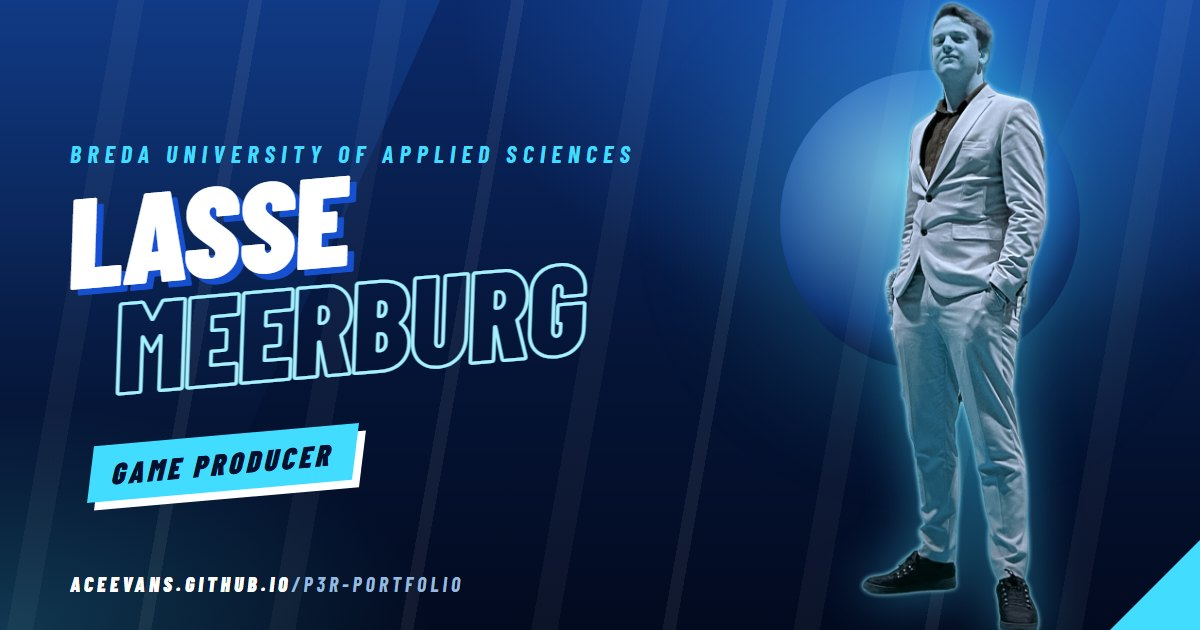
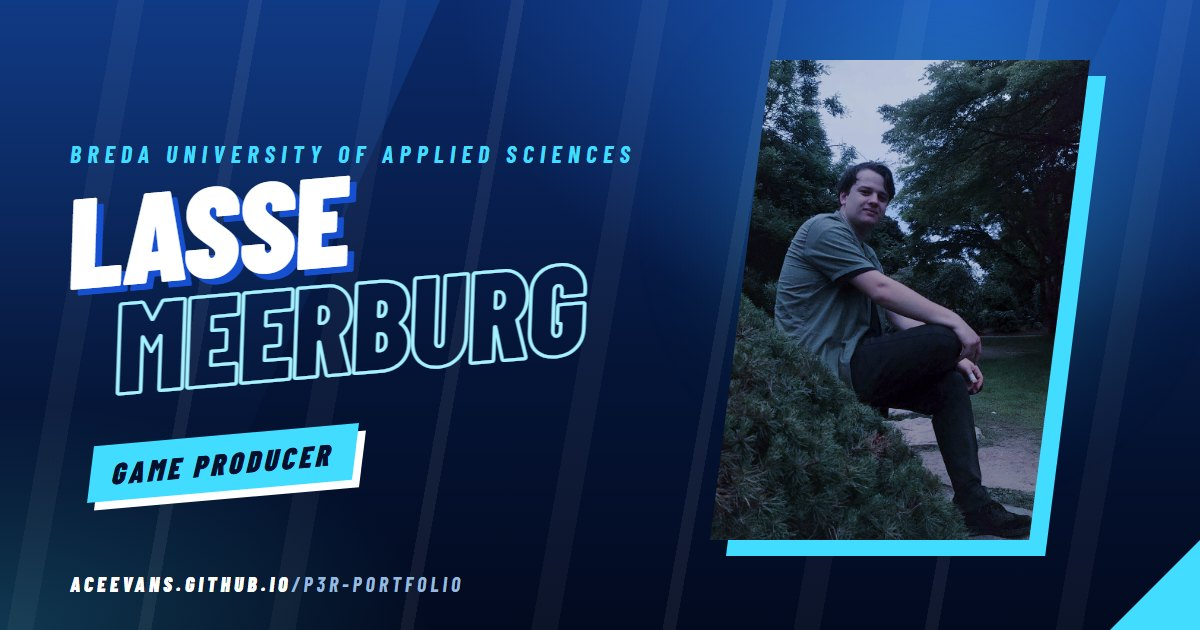
Bring back the hillside photo, reduce motion, drop decorative arrows
- Home hero shows the original hillside photo again; the intro dialogue
  portrait uses the close-up so no photo appears twice
- Softer, shorter entrances: cards and images fade in, no flip or wipe
- Remove scroll parallax, screen shake, title glitch, menu wobble,
  portrait bob, chat buzz, moving waves and menu stripes; gentler tilt
  and a single small click ring
- Arrows only on clickable things: no dialogue ▼, caption ▶, chat ▼,
  floor ▲ or calendar ▶▶/◀◀; the CV connector ends in a dot
- Home link preview uses the hillside photo

Changed region(s): [[0.5858, 0.0, 0.925, 1.0]]

diff --git a/assets/js/site.js b/assets/js/site.js
@@ -316,9 +316,6 @@
     const hdr = $('#hdr');
     const bar = $('.progress');
     const toTop = $('.to-top');
-    const bg = $('.bg');
-    const hero = $('.hero');
-    const phero = $('.phero');
     let lastY = window.scrollY;
     let ticking = false;
 
@@ -332,11 +329,6 @@
       if (Math.abs(y - lastY) > 6) lastY = y;
       bar.style.transform = `scaleX(${(y / max).toFixed(4)})`;
       toTop.classList.toggle('is-shown', y > window.innerHeight * 0.8);
-      if (!reduceMotion) {
-        bg.style.setProperty('--sy', y.toFixed(0));
-        if (hero && y < window.innerHeight * 1.5) hero.style.setProperty('--par', `${(y * 0.12).toFixed(1)}px`);
-        if (phero && y < window.innerHeight * 1.5) phero.style.setProperty('--par', `${(y * 0.3).toFixed(1)}px`);
-      }
     };
 
     window.addEventListener('scroll', () => {
@@ -352,15 +344,6 @@
       window.scrollTo({ top: 0, behavior: reduceMotion ? 'auto' : 'smooth' });
     });
     update();
-  }
-
-  /* ---------- Screen shake ---------------------------------------------- */
-  function shake() {
-    if (reduceMotion) return;
-    const main = $('#main');
-    if (!main) return;
-    restart(main, 'is-shaking');
-    setTimeout(() => main.classList.remove('is-shaking'), 520);
   }
 
   /* ---------- Dark Hour theme -------------------------------------------- */
@@ -405,7 +388,6 @@
       if (document.startViewTransition) {
         showStamp(dark);
         document.startViewTransition(() => apply(dark));
-        setTimeout(shake, 250);
         return;
       }
 
@@ -414,7 +396,7 @@
       $('.dh-flash__sub', flash).textContent = dark ? 'The Dark Hour' : 'Back to normal time';
       flash.classList.toggle('dh-flash--day', !dark);
       restart(flash, 'is-on');
-      setTimeout(() => { apply(dark); shake(); }, 260);
+      setTimeout(() => apply(dark), 260);
     });
   }
 
@@ -587,7 +569,6 @@
       play(done) {
         sfx.hit();
         restart(el, 'is-on');
-        setTimeout(shake, 280);
         setTimeout(done, 1250);
       },
     };
@@ -609,15 +590,9 @@
     $$('.shot').forEach((el) => onVisible(el, () => el.classList.add('is-in')));
   }
 
-  /* ---------- Cards: back face + deal-in -------------------------------- */
+  /* ---------- Cards: fade in when they scroll into view ---------------- */
   function initCards() {
-    $$('.arcana').forEach((card) => {
-      const back = document.createElement('span');
-      back.className = 'arcana__back';
-      back.setAttribute('aria-hidden', 'true');
-      card.append(back);
-      onVisible(card, () => card.classList.add('is-dealt'));
-    });
+    $$('.arcana').forEach((card) => onVisible(card, () => card.classList.add('is-dealt')));
   }
 
   /* ---------- Counters --------------------------------------------------- */
@@ -720,7 +695,6 @@
           <span class="dialog__name"></span>
           <p class="dialog__text" aria-live="polite"></p>
           <p class="dialog__role"></p>
-          <span class="dialog__next" aria-hidden="true">▼</span>
         </div>
         <div class="talk__ctrl">
           <button class="btn" type="button" data-prev>◀ Prev</button>
@@ -896,7 +870,6 @@
       msgs[k].before(typing);
       setTimeout(() => {
         msgs[k].classList.remove('is-hidden');
-        restart(phone, 'is-buzz');
         sfx.pop();
         k += 1;
         step();
@@ -982,14 +955,6 @@
       if (e.key === 'ArrowUp' || e.key === 'ArrowLeft') { e.preventDefault(); sfx.hover(); set(idx - 1, true); }
     });
     set(0);
-
-    const hero = $('.hero');
-    const cut = $('.hero__cutout');
-    if (cut) {
-      const fail = () => hero.classList.add('no-cutout');
-      if (cut.complete && !cut.naturalWidth) fail();
-      cut.addEventListener('error', fail);
-    }
   }
 
   /* ---------- CV: calendar that follows the timeline -------------------- */
@@ -1010,22 +975,26 @@
     const svg = document.createElementNS(NS, 'svg');
     svg.setAttribute('class', 'daycal__link');
     svg.setAttribute('aria-hidden', 'true');
-    svg.innerHTML = '<defs><marker id="dc-arrow" viewBox="0 0 10 10" refX="7" refY="5" markerWidth="8" markerHeight="8" orient="auto"><path d="M0 0L10 5L0 10z" fill="currentColor"/></marker></defs><path class="daycal__path" marker-end="url(#dc-arrow)"/>';
+    svg.innerHTML = '<path class="daycal__path"/><circle class="daycal__dot" r="4"/>';
     layout.append(svg);
     const path = $('.daycal__path', svg);
+    const dot = $('.daycal__dot', svg);
 
     let current = null;
     const draw = () => {
-      if (!current || getComputedStyle(cal).display === 'none') { path.setAttribute('d', ''); return; }
+      if (!current || getComputedStyle(cal).display === 'none') { path.setAttribute('d', ''); dot.setAttribute('r', '0'); return; }
+      dot.setAttribute('r', '4');
       const L = layout.getBoundingClientRect();
       const a = cal.getBoundingClientRect();
       const b = $('.tl__date', current).getBoundingClientRect();
       const x1 = a.right - L.left - 4;
       const y1 = a.top + a.height * 0.7 - L.top;
-      const x2 = b.left - L.left - 10;
+      const x2 = b.left - L.left - 8;
       const y2 = b.top + b.height / 2 - L.top;
       const xm = x1 + Math.max(14, (x2 - x1) * 0.4);
       path.setAttribute('d', `M${x1.toFixed(1)} ${y1.toFixed(1)}H${xm.toFixed(1)}V${y2.toFixed(1)}H${x2.toFixed(1)}`);
+      dot.setAttribute('cx', x2.toFixed(1));
+      dot.setAttribute('cy', y2.toFixed(1));
     };
     let ticking = false;
     const schedule = () => { if (!ticking) { ticking = true; requestAnimationFrame(() => { ticking = false; draw(); }); } };
@@ -1062,10 +1031,10 @@
       const target = new Date(parts[0], parts[1] - 1, 1);
       const months = (target.getFullYear() - cur.getFullYear()) * 12 + (target.getMonth() - cur.getMonth());
       if (!months || reduceMotion) { cur = target; show(cur, true); return; }
-      fx.textContent = months > 0 ? '▶▶ Forward' : '◀◀ Rewinding';
+      fx.textContent = months > 0 ? 'Forward in time' : 'Rewinding';
       cal.classList.add('is-running');
       const start = cur;
-      const steps = Math.min(Math.abs(months), 14);
+      const steps = Math.min(Math.abs(months), 6);
       let k = 0;
       timer = setInterval(() => {
         k += 1;
@@ -1077,7 +1046,7 @@
           show(cur, true);
           cal.classList.remove('is-running');
         }
-      }, 70);
+      }, 90);
     };
 
     const watch = new IntersectionObserver((list) => {
@@ -1233,8 +1202,8 @@
         const r = el.getBoundingClientRect();
         const x = (e.clientX - r.left) / r.width;
         const y = (e.clientY - r.top) / r.height;
-        el.style.setProperty('--ry', `${((x - 0.5) * 14).toFixed(2)}deg`);
-        el.style.setProperty('--rx', `${(-(y - 0.5) * 14).toFixed(2)}deg`);
+        el.style.setProperty('--ry', `${((x - 0.5) * 7).toFixed(2)}deg`);
+        el.style.setProperty('--rx', `${(-(y - 0.5) * 7).toFixed(2)}deg`);
         el.style.setProperty('--px', `${(x * 100).toFixed(1)}%`);
         el.style.setProperty('--py', `${(y * 100).toFixed(1)}%`);
       });
@@ -1255,14 +1224,9 @@
       el.className = 'splash';
       el.style.left = `${e.clientX}px`;
       el.style.top = `${e.clientY}px`;
-      let html = '<i class="ring"></i><i class="ring ring--2"></i>';
-      const n = big ? 10 : 6;
-      for (let i = 0; i < n; i++) {
-        html += `<i class="drop" style="--a:${((360 / n) * i + Math.random() * 25).toFixed(0)}deg;--r:${(28 + Math.random() * 44).toFixed(0)}px"></i>`;
-      }
-      el.innerHTML = html;
+      el.innerHTML = `<i class="ring${big ? '' : ' ring--small'}"></i>`;
       document.body.append(el);
-      setTimeout(() => el.remove(), 1200);
+      setTimeout(() => el.remove(), 700);
     });
   }
 

diff --git a/assets/css/style.css b/assets/css/style.css
@@ -1690,3 +1690,47 @@ a.arcana:active { --press: .95; }
 /* Menu close button lives top-right (where the Menu button is), clear of Extras */
 .menu .menu__close { position: absolute; top: 18px; right: clamp(16px, 3vw, 40px); }
 .quote::before { font: 700 82px/1 Georgia, "Times New Roman", serif; top: 10px; }
+
+/* ==========================================================================
+   v5 — less motion overall, arrows only on things you can click
+   ========================================================================== */
+
+/* Home hero: the hillside photo in its slanted frame */
+.hero--menu .hero__photo { display: block; }
+.hero__figure { min-height: 0; }
+.speaker__img img { object-position: 50% 22%; }
+
+/* Softer, shorter entrances */
+.js [data-reveal] { translate: 0 18px; transition: opacity .6s var(--ease), translate .6s var(--ease); }
+.js [data-stagger].is-in > * { animation: staggerSoft .45s var(--ease) backwards; animation-delay: calc(var(--i, 0) * 45ms + 40ms); }
+@keyframes staggerSoft { from { opacity: 0; translate: 0 8px; } }
+.arcana.is-dealt { animation: fadeUp .7s var(--ease) both; }
+@keyframes fadeUp { from { opacity: 0; translate: 0 22px; } to { opacity: 1; translate: 0 0; } }
+.shot.is-in .shot__frame > div::after { animation: none; }
+.shot.is-in img { animation: fadeIn .7s var(--ease) both; }
+@keyframes fadeIn { from { opacity: 0; } to { opacity: 1; } }
+.js .title:not(.is-in) .title__main { translate: -14px 0; }
+@keyframes slamSoft { from { opacity: 0; translate: -24px 0; } to { opacity: 1; translate: 0 0; } }
+@media (prefers-reduced-motion: no-preference) {
+  .hero__title > span, .phero__title, .hero__role, .phero__role { animation-name: slamSoft; animation-duration: .7s; }
+  .hero__photo { animation: slamSoft .8s .1s var(--ease) both; }
+}
+.tl.is-in .tl__date { animation: none; }
+.rankup.is-in .rankup__flag, .quest.is-in .quest__stamp { animation: fadeIn .5s .2s var(--ease) both; }
+
+/* Nothing loops, wobbles or shakes */
+.bg__waves, .menu__bg::after { animation: none; }
+.menu__bg { animation: menuBg .45s var(--ease) both; }
+.proj__title a:hover, .pnav__link:hover .pnav__title, .slink__item a.is-active .slink__title { animation: none; }
+.menu__item.is-active .menu__label, .hmenu__item.is-active .hmenu__label { animation: none; }
+.speaker:has(.dialog.is-typing) .speaker__img img { animation: none; }
+.speaker:has(.dialog.is-typing) .speaker__frame { translate: 14px 14px; }
+.phone.is-buzz, .is-shaking { animation: none; }
+.arcana:hover::after, .arcana:focus-visible::after { opacity: .6; }
+.splash .ring { width: 56px; height: 56px; margin: -28px 0 0 -28px; animation-duration: .45s; }
+.splash .ring--small { width: 36px; height: 36px; margin: -18px 0 0 -18px; opacity: .7; }
+
+/* Arrows only where there is something to click */
+.dialog__next { display: none; }
+.shot figcaption::before { content: none; }
+.daycal__dot { fill: var(--cyan); }

diff --git a/index.html b/index.html
@@ -50,15 +50,10 @@
         </ul>
       </div>
       <figure class="hero__figure">
-        <div class="hero__halo" aria-hidden="true"></div>
-        <div class="hero__person">
-          <img class="hero__cutout" src="assets/img/lasse-cutout.png" alt="Lasse Meerburg standing in a light grey suit with his hands in his pockets." width="403" height="1349" fetchpriority="high">
-        </div>
-        <div class="hero__rim" aria-hidden="true"></div>
         <div class="hero__photo">
           <div class="hero__frame" aria-hidden="true"></div>
           <div class="hero__img">
-            <img src="https://images.squarespace-cdn.com/content/v1/67a513989b3bf35e9ae5f112/a70b5be4-6b51-494e-b6a9-8e476831c168/IMG_20250909_161806.jpg?format=1000w" alt="Lasse sitting on a grassy hillside in a park, with trees behind him." width="1000" height="1312" loading="lazy" decoding="async">
+            <img src="https://images.squarespace-cdn.com/content/v1/67a513989b3bf35e9ae5f112/a70b5be4-6b51-494e-b6a9-8e476831c168/IMG_20250909_161806.jpg?format=1000w" alt="Lasse sitting on a grassy hillside in a park, with trees behind him." width="1000" height="1312" fetchpriority="high" decoding="async">
           </div>
         </div>
       </figure>
@@ -72,14 +67,13 @@
       <figure class="speaker__portrait" data-reveal>
         <div class="speaker__frame" aria-hidden="true"></div>
         <div class="speaker__img">
-          <img src="https://images.squarespace-cdn.com/content/v1/67a513989b3bf35e9ae5f112/a70b5be4-6b51-494e-b6a9-8e476831c168/IMG_20250909_161806.jpg?format=750w" alt="Lasse sitting on a grassy hillside in a park, with trees behind him." width="750" height="984" loading="lazy" decoding="async">
+          <img src="https://images.squarespace-cdn.com/content/v1/67a513989b3bf35e9ae5f112/c608c3dd-22d5-4766-8b79-aef9ff87ccad/picture+of+me.jpg?format=750w" alt="Portrait of Lasse smiling, wearing a pale green polo shirt." width="750" height="1125" loading="lazy" decoding="async">
         </div>
       </figure>
       <div class="speaker__talk">
         <div class="dialog" data-typewriter data-reveal>
           <span class="dialog__name">Lasse</span>
           <p class="dialog__text">Hello! I'm Lasse, a passionate Game Producer with over two years of experience making games as part of my studies. Currently, I am studying at Breda University of Applied Sciences.</p>
-          <span class="dialog__next" aria-hidden="true">▼</span>
         </div>
         <nav class="choices" aria-label="Where to next">
           <a class="choice" href="cv.html">Let me see your CV.<small>CV</small></a>

diff --git a/velvet.html b/velvet.html
@@ -29,7 +29,7 @@
 <body>
 <noscript><nav class="wrap" style="padding:20px 0"><a href="index.html">Home</a> · <a href="projects.html">Projects</a> · <a href="about.html">About</a> · <a href="cv.html">CV</a> · <a href="contact.html">Contact</a></nav></noscript>
 <div class="elevator" aria-hidden="true"></div>
-<div class="floor" aria-hidden="true">▲ Ascending <b>01F</b></div>
+<div class="floor" aria-hidden="true">Ascending <b>01F</b></div>
 
 <main id="main">
   <section class="section" style="padding-top:calc(var(--header-h) + 60px)" aria-labelledby="page-title">
@@ -42,7 +42,6 @@
       <div class="dialog" data-typewriter data-reveal>
         <span class="dialog__name">Attendant</span>
         <p class="dialog__text">Welcome, guest. This room only opens for people who look a little closer. Since you found it, here is the side of Lasse that doesn't fit on a CV.</p>
-        <span class="dialog__next" aria-hidden="true">▼</span>
       </div>
     </div>
   </section>

diff --git a/contact.html b/contact.html
@@ -41,7 +41,7 @@
         <div class="phone__chat" aria-live="polite">
           <p class="msg msg--title">Contact me!</p>
           <p class="msg">Have any questions? Feel free to contact me on my socials.</p>
-          <p class="msg">You can find me on LinkedIn. ▼</p>
+          <p class="msg">You can find me on LinkedIn.</p>
         </div>
         <div class="phone__reply">
           <a class="choice" href="https://www.linkedin.com/in/lasse-meerburg-8530b225b/" target="_blank" rel="noopener">Message Lasse on LinkedIn<small>Opens linkedin.com</small></a>
